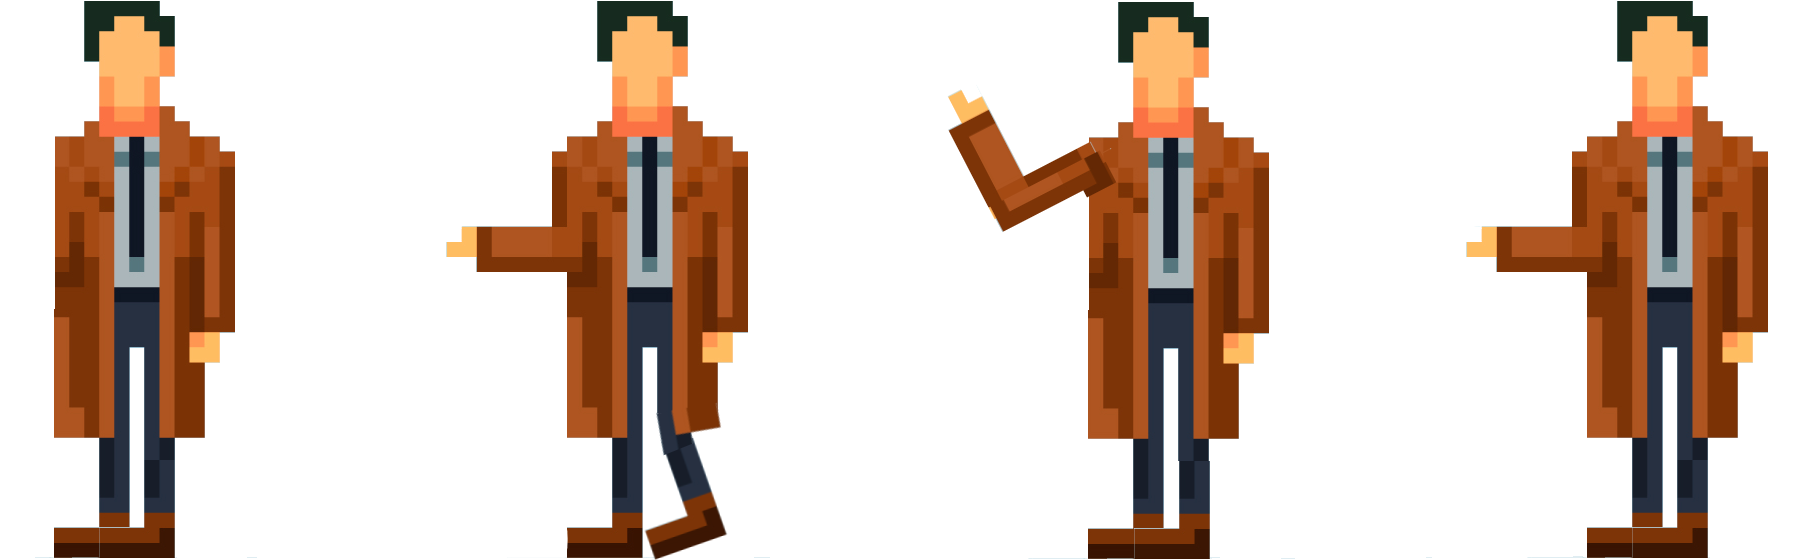
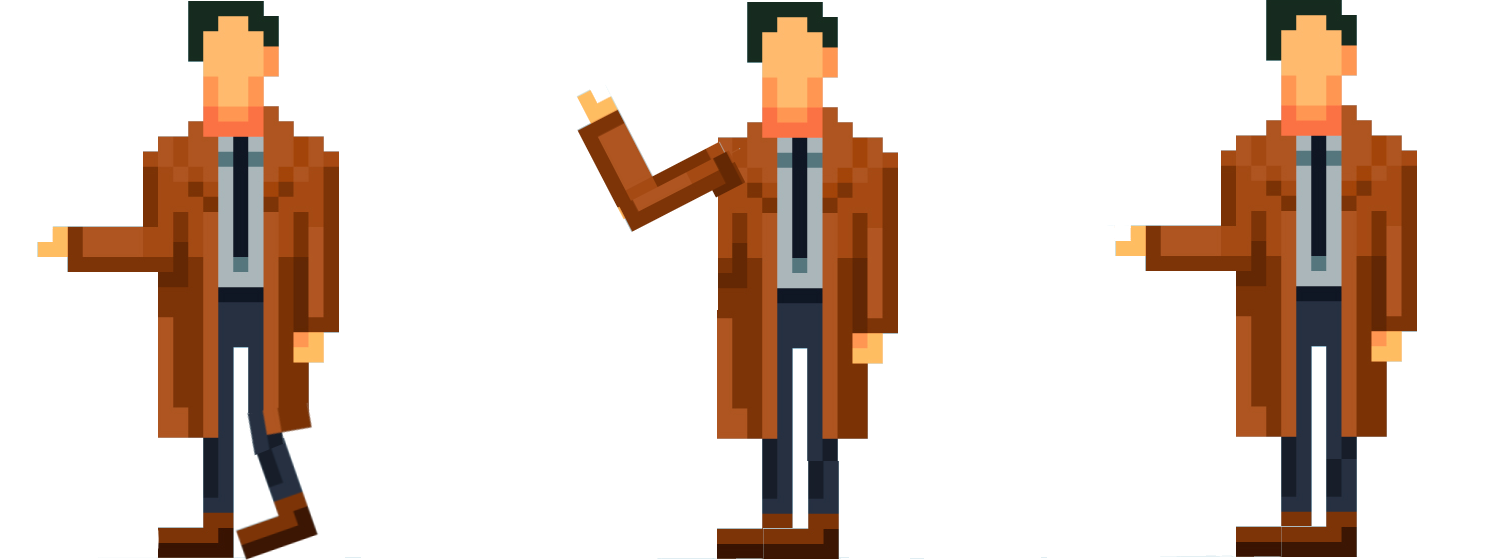
change game 10

diff --git a/assets/js/models/homofomaster.js b/assets/js/models/homofomaster.js
@@ -2,9 +2,9 @@ class Homofomaster {
     constructor(ctx, x, y) {
       this.ctx = ctx;
       this.x = x;
-      this.y = y - FLOOR_POSITION;
+      this.y = y - FLOOR_POSITION -15;
       this.width = 150;
-      this.height = 130;
+      this.height = 150;
       this.vx = -1;
       this.life = 10;
       
@@ -15,7 +15,7 @@ class Homofomaster {
       this.image.src = "/assets/images/characters/homofomaster/homofomaster.png";
       this.image.verticalFrames = 1; 
       this.image.verticalFrameIndex = 0;
-      this.image.horizontalFrames = 4;
+      this.image.horizontalFrames = 3;
       this.image.horizontalFrameIndex = 0;
       this.image.onload = () => {
         this.image.isReady = true;
@@ -47,7 +47,6 @@ class Homofomaster {
           }
           return colX && colY;
         })
-    
     }
 
     isShooting() {
@@ -94,7 +93,7 @@ class Homofomaster {
         this.animationTick++;
     
         if (this.isShooting()) {
-            this.image.horizontalFrameIndex = 1;
+            this.image.horizontalFrameIndex = 3;
           } else if (this.animationTick > VENENO_RAN_ANIMATION_TICK) {
             this.animationTick = 0; 
             this.image.horizontalFrameIndex++
@@ -103,7 +102,7 @@ class Homofomaster {
             censored.move();
           });
 
-        if (this.image.horizontalFrameIndex > this.image.horizontalFrames - 3) {
+        if (this.image.horizontalFrameIndex > this.image.horizontalFrames - 1) {
             this.image.horizontalFrameIndex = 0;
         }
     }

diff --git a/index.html b/index.html
@@ -13,14 +13,14 @@
       <button onclick="pauseMusic()">Pausar música</button>
     </div>
     <div class="game-panel init-panel">
-      <img src="/assets/images/inicio/inicio.gif" width="850" height="420" />
+      <img src="/assets/images/inicio/inicio.gif" width="1000" height="520" />
       <div class="panel-actions">
         <button id="btn-start">START</button>
       </div>
     </div>
-    <canvas id="game-veneno" width="850" height="420" class="hidden"></canvas>
-    <img id="game-over" src="/assets/images/gameover.gif" width="850" height="420" class="hidden" />
-    <img id="game-winner" src="/assets/images/winner.gif" width="850" height="420" class="hidden" />
+    <canvas id="game-veneno" width="1000" height="520" class="hidden"></canvas>
+    <img id="game-over" src="/assets/images/gameover.gif" width="1000" height="520" class="hidden" />
+    <img id="game-winner" src="/assets/images/winner.gif" width="1000" height="520" class="hidden" />
   </div>  
   <script src="/assets/js/constant.js"></script>
   <script src="/assets/js/models/background-inicio.js"></script>

diff --git a/assets/js/models/game.js b/assets/js/models/game.js
@@ -20,7 +20,7 @@ class Game {
     this.limitFly = Math.floor(Math.random() * 1000);
     this.limitProp = Math.floor(Math.random() * 1000);
 
-    this.score = 15;
+    this.score = 0;
     this.tickScores = 0;
     this.endGame = false;
 
@@ -77,7 +77,7 @@ class Game {
         }
         if (this.tickEnemy > this.limitEnemy) {
           if (!this.enterBoss) {
-            //this.addEnemy("PUTERO");
+            this.addEnemy("PUTERO");
           }
           
           this.tickEnemy = 0;
@@ -274,8 +274,8 @@ class Game {
   drawScore() {
     this.ctx.save();
     this.ctx.fillStyle ="white";
-    this.ctx.font = "35px digital-veneno";
-    this.ctx.fillText(`SCORE: ${this.score.toString().padStart(5, "0")}`, this.ctx.canvas.width - 150, 45, 100);
+    this.ctx.font = "45px digital-veneno";
+    this.ctx.fillText(`SCORE: ${this.score.toString().padStart(5, "0")}`, this.ctx.canvas.width - 140, 55, 120);
     this.ctx.restore();
   }
 

diff --git a/assets/css/main.css b/assets/css/main.css
@@ -75,8 +75,8 @@ body {
     text-align: center;
     display: flex;
     cursor: pointer; 
-    margin-top: -50%;
-    margin-right: -10%;
+    margin-top: -55%;
+    margin-right: -15%;
     padding: 10px;
 }
 
